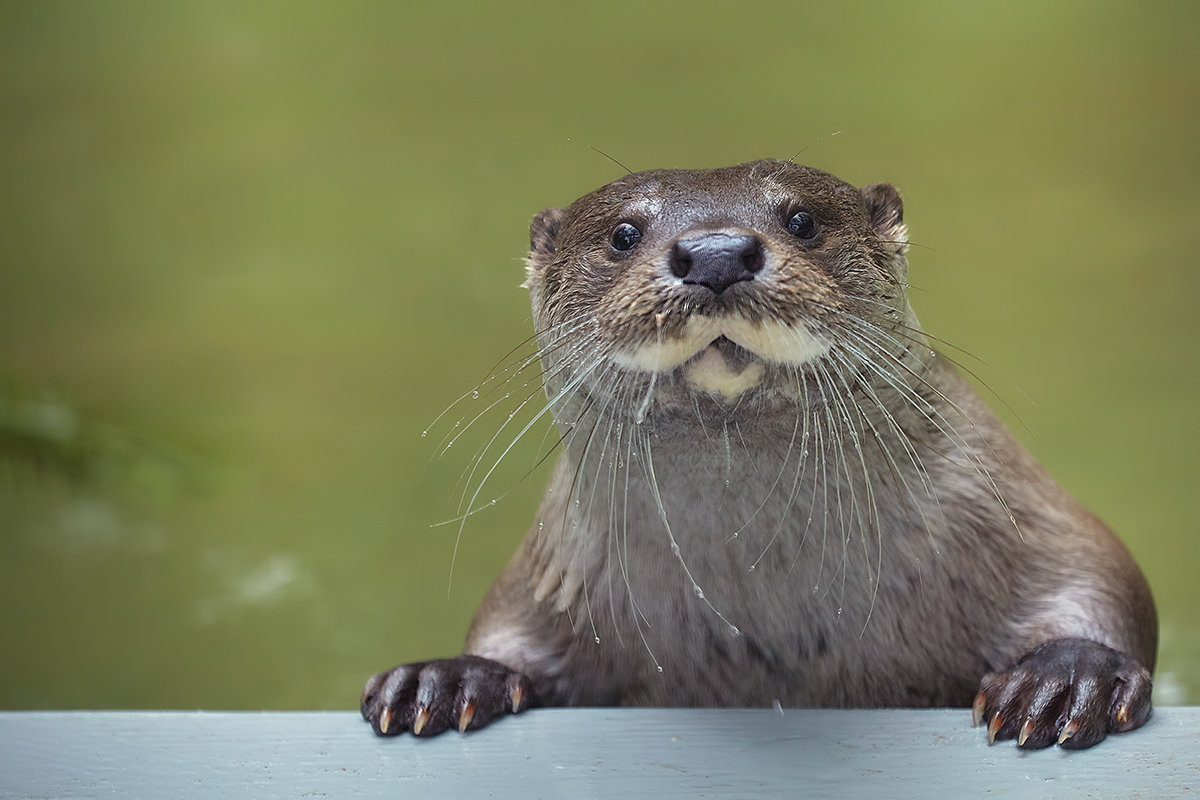
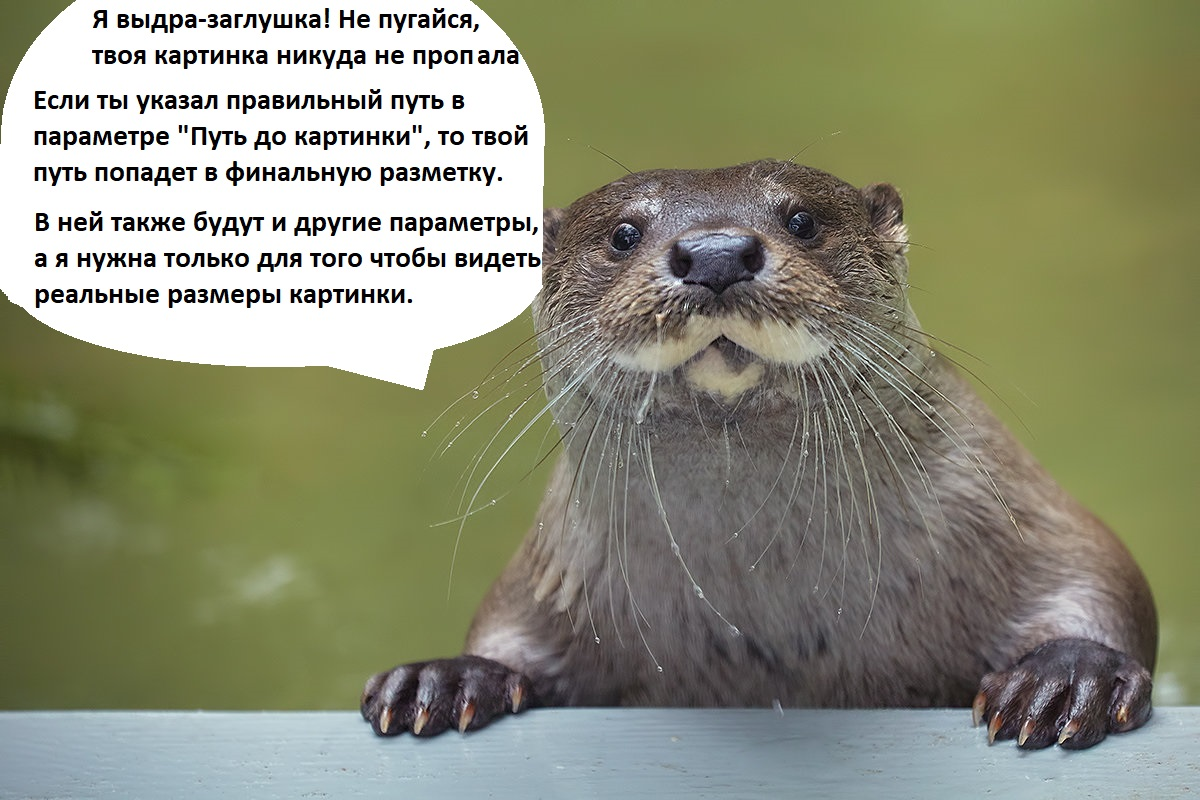
Модифицирует картинку добавляя в нее объяснение; Добавляет в стартовые примеры хелп с объяснениями по использованию; Исправляет баг с отсуствием передачи параметров из панели в храналище; Добавляет контрольный блок с кнопкой Очистить все (пока не функциональна, только наличие и стили); Добавляет авт

Changed region(s): [[0.0, 0.0, 0.4625, 0.5]]

diff --git a/src/script/components/form.js b/src/script/components/form.js
@@ -13,36 +13,36 @@ const createForm = tagName => {
                             ${utils.select('fontStyle', ['normal', 'italic'], 'Выберите стиль шрифта')}
                             ${utils.select('fontWeight', ['normal', 'bold', 'lighter'], 'Выберите толщину шрифта')}
                             ${utils.select('textAlign', ['left', 'center', 'right'], 'Выберите положение заголовка')}
-                            ${utils.textarea('styles', 'Введите желаемые стили для заголовка (опционально), формат css','Укажите дополнительные стили')}
+                            ${utils.textarea('styles', 'Введите желаемые стили для заголовка (опционально), формат css','Дополнительные стили:')}
                             ${utils.submitBtn()}`);
     } else if (tagName === 'Обычный текст') {
         form = utils.form(` ${utils.input('content', 'Введите текст абзаца', 'Текст абзаца:')}
-                            ${utils.input('fontSize', 'Введите размер текста от 1 до 100px (только цифры)', 'Размер текста')}
+                            ${utils.input('fontSize', 'Введите размер текста от 1 до 100px (только цифры)', 'Размер текста:')}
                             ${utils.input('color', 'Введите цвет текста', 'Цвет текста:')}
                             ${utils.select('fontFamily', ['sans-serif', 'serif', 'Georgia', 'system-ui'], 'Выберите тип шрифта')}
                             ${utils.select('fontStyle', ['normal', 'italic'], 'Выберите стиль шрифта')}
                             ${utils.select('fontWeight', ['normal', 'bold', 'lighter'], 'Выберите толщину шрифта')}
                             ${utils.select('textAlign', ['left', 'center', 'right'], 'Выберите положение текста')}
-                            ${utils.textarea('styles', 'Введите желаемые стили для текста (опционально), формат css', 'Укажите дополнительные стили')}
+                            ${utils.textarea('styles', 'Введите желаемые стили для текста (опционально), формат css', 'Дополнительные стили:')}
                             ${utils.submitBtn()}`);
     } else if (tagName === 'Колонки с текстом') {
-        form = utils.form(` ${utils.textarea('content', 'Введите текст абзацев для каждого столбца через ;')}
+                            form = utils.form(` ${utils.textarea('content', 'Введите текст абзацев для каждого столбца через ; ', 'Текст колонок:')}
                             ${utils.select('coluns', ['2', '3', '4', '6', '12'], 'Выберите количество столбцов текста')}
-                            ${utils.input('fontSize', 'Введите размер текста от 1 до 100px (только цифры)', 'Размер текста')}
+                            ${utils.input('fontSize', 'Введите размер текста от 1 до 100px (только цифры)', 'Размер текста:')}
                             ${utils.input('color', 'Введите цвет текста', 'Цвет текста:')}
                             ${utils.select('fontFamily', ['sans-serif', 'serif', 'Georgia', 'system-ui'], 'Выберите тип шрифта')}
                             ${utils.select('fontStyle', ['normal', 'italic'], 'Выберите стиль шрифта')}
                             ${utils.select('fontWeight', ['normal', 'bold', 'lighter'], 'Выберите толщину шрифта')}                         
-                            ${utils.textarea('styles', 'Введите желаемые стили для заголовка', 'Укажите дополнительные стили')}
+                            ${utils.textarea('styles', 'Введите желаемые стили для заголовка', 'Дополнительные стили:')}
                             ${utils.submitBtn()}`);
     } else if (tagName === 'Изображение') {
         form = utils.form(` ${utils.input('content', 'Путь до картинки', 'Укажите путь до картинки:')}
-                            ${utils.input('alt', 'Введите описание для картинки, (alt)', 'Введите описани картинки')}
-                            ${utils.input('width', 'Введите ширину картинки', 'Ширина')}
-                            ${utils.input('height', 'Введите высоту картинки', 'Длина')}
-                            ${utils.input('radius', 'Введите значение для скругления углов картинки (только цифры)', 'Величина скругления углов')}
+                            ${utils.input('alt', 'Введите описание для картинки:, (alt)', 'Введите описани картинки:')}
+                            ${utils.input('width', 'Введите ширину картинки', 'Ширина:')}
+                            ${utils.input('height', 'Введите высоту картинки', 'Длина:')}
+                            ${utils.input('radius', 'Введите значение для скругления углов картинки (только цифры)', 'Величина скругления углов:')}
                             ${utils.select('justify', ['flex-start', 'center', 'flex-end'], 'Выберите положение картинки')}                            
-                            ${utils.textarea('styles', 'Введите желаемые стили для картинки', 'Укажите дополнительные стили')}
+                            ${utils.textarea('styles', 'Введите желаемые стили для картинки', 'Дополнительные стили:')}
                             ${utils.submitBtn()}`);
     }
     return form;
@@ -53,15 +53,18 @@ const onSubmitForm = e => {
 
     const $mainSelect = document.querySelector('.main-select select');
     const dataClass = $mainSelect.options[$mainSelect.selectedIndex].value;
-    const formChildren = e.target.children;
+    const formLables = e.target.querySelectorAll('lable');
 
     let mainData = {};
 
-    for (let elem of formChildren) {
-        if (elem.value) {
-            mainData[elem.name] = elem.value;
+    for (let lable of formLables) {
+        const dataBlock = lable.children[0];
+        if (dataBlock.value) {
+            mainData[dataBlock.name] = dataBlock.value;
         }
     }
+
+    e.target.reset();
     management.addNewData(dataClass, mainData);
 }
 

diff --git a/src/script/components/help.js b/src/script/components/help.js
@@ -1,0 +1,10 @@
+const headerStartContent = 'Конструктор веб сайтов';
+const textStartContent = 'Привет, этот небольшой проект задумывался как простой конструктор веб сайта. Он позволяет создать простую структуру из самых популярных блоков. После созданию по нажатию на кнпоку "Результат" ты получишь готовую HTML разметку вместе с описанием стилей. Ниже ты найдешь инструкцию к каждому из доступных блоков. И прежде чем начать конечно же удали все блоки с описанием со страницы, использовав "Очистить все", чтобы они не попали в разметку.';
+const descriptionText = 'На текущий момент доступно 4 типа блоков: Заголовок, обычный Текст, текст в ввиде Столбцов и Изображение. С заголовком и обычным текстом все просто: укажи нужные параметры и введи сам текст. Для столбцов текста тебе необходимо указать точное количество столбцов в соотвествующем поле, кроме этого ОБЯЗАТЕЛЬНО раздели введеный текст на столбцы используя знак "; ". Каждый разделитель поместит часть текста в новый столбец.';
+const help = {
+    headerStartContent,
+    textStartContent,
+    descriptionText
+}
+
+export default help;

diff --git a/src/script/components/storage.js b/src/script/components/storage.js
@@ -2,26 +2,43 @@ import HeaderBlock from '../classes/header';
 import TextBlock from '../classes/text';
 import ColumnsBlock from '../classes/columns';
 import ImageBlock from '../classes/image';
+import help from './help';
 
 let _dataStorage = [
     new HeaderBlock({
         id: 1,
-        content: 'Hot headerrrrr',
+        content: help.headerStartContent,
         tag: 'h2',
-        styles: 'text-align: center; color: red;'
+        textAlign: 'center',
+        fontWeight: 'bold',
+        fontFamily: 'Verdana, Geneva, sans-serif',
+        styles: 'margin: 25px; text-shadow: 1px 1px 25px black;'
     }),
     new TextBlock({
         id: 2,
-        content: 'this\'s super text',
-        styles: 'background: yellow;'
+        content: help.textStartContent,
+        fontFamily: 'Verdana, Geneva, sans-serif',
+        styles: 'background: #B2B2B2; padding: 30px; border-radius: 10px; box-shadow: 1px 1px 5px black;'
+    }),
+    new TextBlock({
+        id: 3,
+        content: help.descriptionText,
+        fontFamily: 'Verdana, Geneva, sans-serif',
+        styles: 'background: #FFFF66; padding: 30px; border-radius: 10px; box-shadow: 1px 1px 5px black;'
     }),
     new ColumnsBlock({
-        id: 3,
-        content: [123, 345, 567, 888]
+        id: 4,
+        coluns: 6,
+        content: ['Это', 'пример', 'блока', 'из', 'шести', 'столбцов'],
     }),
     new ImageBlock({
-        id: 4,
-        content: '/examplePath/...'
+        id: 5,
+        content: '/examplePath/...',
+        width: 800,
+        height: 460,
+        radius: 45,
+        justify: 'center',
+        styles: 'margin-top: 10px'
     })
 ];
 

diff --git a/src/script/classes/management.js b/src/script/classes/management.js
@@ -18,11 +18,15 @@ import {
 } from '../components/handler';
 import {
     removeContent,
-    removeForm
+    removeForm,
+    removeControl
 } from '../components/cleaner';
 import {
     eventOnRemoveBtns
 } from '../components/remove-btn';
+import {
+    createControlBlock
+} from '../components/control-btns'
 
 class ManagementCenter {
     constructor(content, panel, startId) {
@@ -54,6 +58,7 @@ class ManagementCenter {
 
     renderStartForm() {
         renderPanel(createForm('Заголовок'), this.panelBlock);
+        renderPanel(createControlBlock(), this.panelBlock);
     }
 
     addNewData = (selectorName, data) => {
@@ -73,7 +78,9 @@ class ManagementCenter {
 
     changeForm = formName => {
         removeForm();
-        renderPanel(createForm(formName), this.panelBlock)
+        removeControl();
+        renderPanel(createForm(formName), this.panelBlock);
+        renderPanel(createControlBlock(), this.panelBlock);
     }
 }
 

diff --git a/src/script/components/utils.js b/src/script/components/utils.js
@@ -28,15 +28,23 @@ const input = (name, placeholder, lable) => {
 }
 
 const textarea = (name, placeholder, lable) => {
-    return `<textarea placeholder="${placeholder}" name=${name}></textarea>`;
+    return `<div class="flex-column"><lable>${lable}<textarea placeholder="${placeholder}" name=${name}></textarea></lable></div>`;
 }
 
 const submitBtn = () => {
     return `<button type="submit">Создать блок</button>`;
 }
 
+const justBtn = (text = 'Кнопка') => {
+    const btn = document.createElement('button');
+    btn.innerText = text;
+
+    return btn;
+}
+
 const select = (name, options, lable) => {
     const opts = options.map(text => `<option>${text}</option>`);
+
     return `<div class="flex-column"><lable>${lable}<select name="${name}">${opts}</select></lable></div>`;
 }
 
@@ -52,7 +60,8 @@ const utils = {
     textarea,
     submitBtn,
     select,
-    removeBtn
+    removeBtn,
+    justBtn
 }
 
 export default utils;

diff --git a/src/style/style.css b/src/style/style.css
@@ -99,9 +99,38 @@
     border-radius: 5px;
     font-size: 18px;
     letter-spacing: 1.5px;
+    opacity: .75;
+    transition: .5s ease;
+}
+
+.form button:hover {
+    opacity: 1;
+    background: gray;
+    color: white
 }
 
 .flex-column {
     display: flex;
     flex-flow: column, wrap;
+}
+
+.control-block {
+    margin: 20px 0;
+    width: 90%;
+}
+
+.clean-btn {
+    width: 100%;
+    height: 25px;
+    font-size: 14px;
+    border: none;
+    border-radius: 5px;
+    letter-spacing: 1.5px;
+    background: #FF7373;
+    color: white;
+    transition: .5s ease;
+}
+
+.clean-btn:hover {
+    background: red;
 }

diff --git a/src/script/components/control-btns.js b/src/script/components/control-btns.js
@@ -1,0 +1,18 @@
+import utils from './utils';
+
+const createControlBlock = () => {
+    const controlBlock = document.createElement('div');
+    const cleanBtn = utils.justBtn('Очистить все');
+
+    controlBlock.classList.add('control-block');
+    cleanBtn.classList.add('clean-btn');
+    cleanBtn.addEventListener('click', () => console.log('clean all'));
+    controlBlock.append(cleanBtn);
+
+    return controlBlock;
+}
+
+
+export {
+    createControlBlock
+};

diff --git a/src/script/components/cleaner.js b/src/script/components/cleaner.js
@@ -8,7 +8,13 @@ const removeForm = () => {
     form.remove();
 }
 
+const removeControl = () => {
+    const controlBlock = document.querySelector('.control-block');
+    controlBlock.remove();
+}
+
 export {
     removeContent,
-    removeForm
+    removeForm,
+    removeControl
 };
